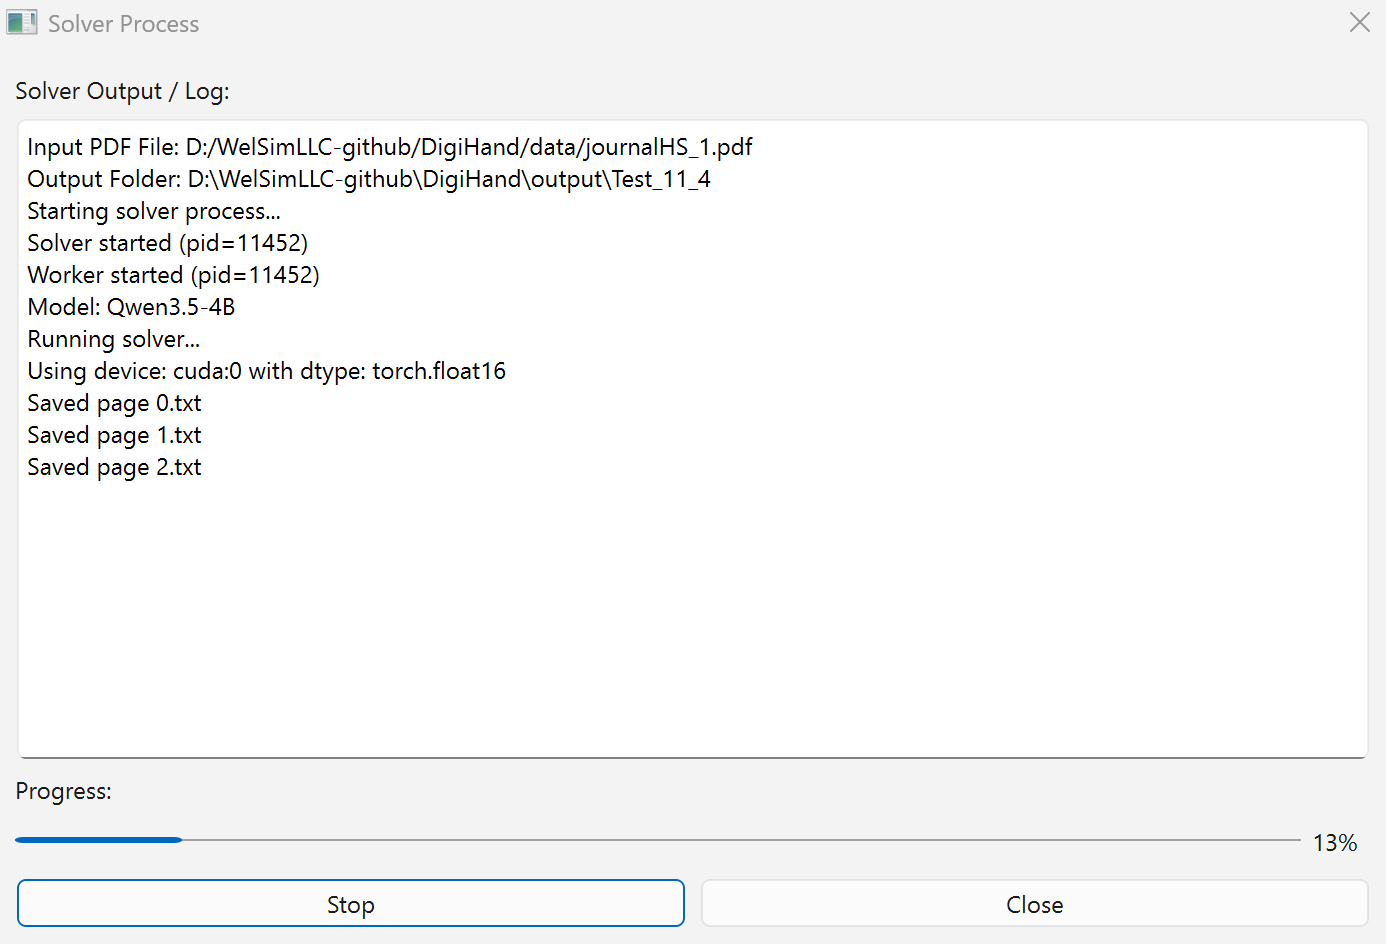
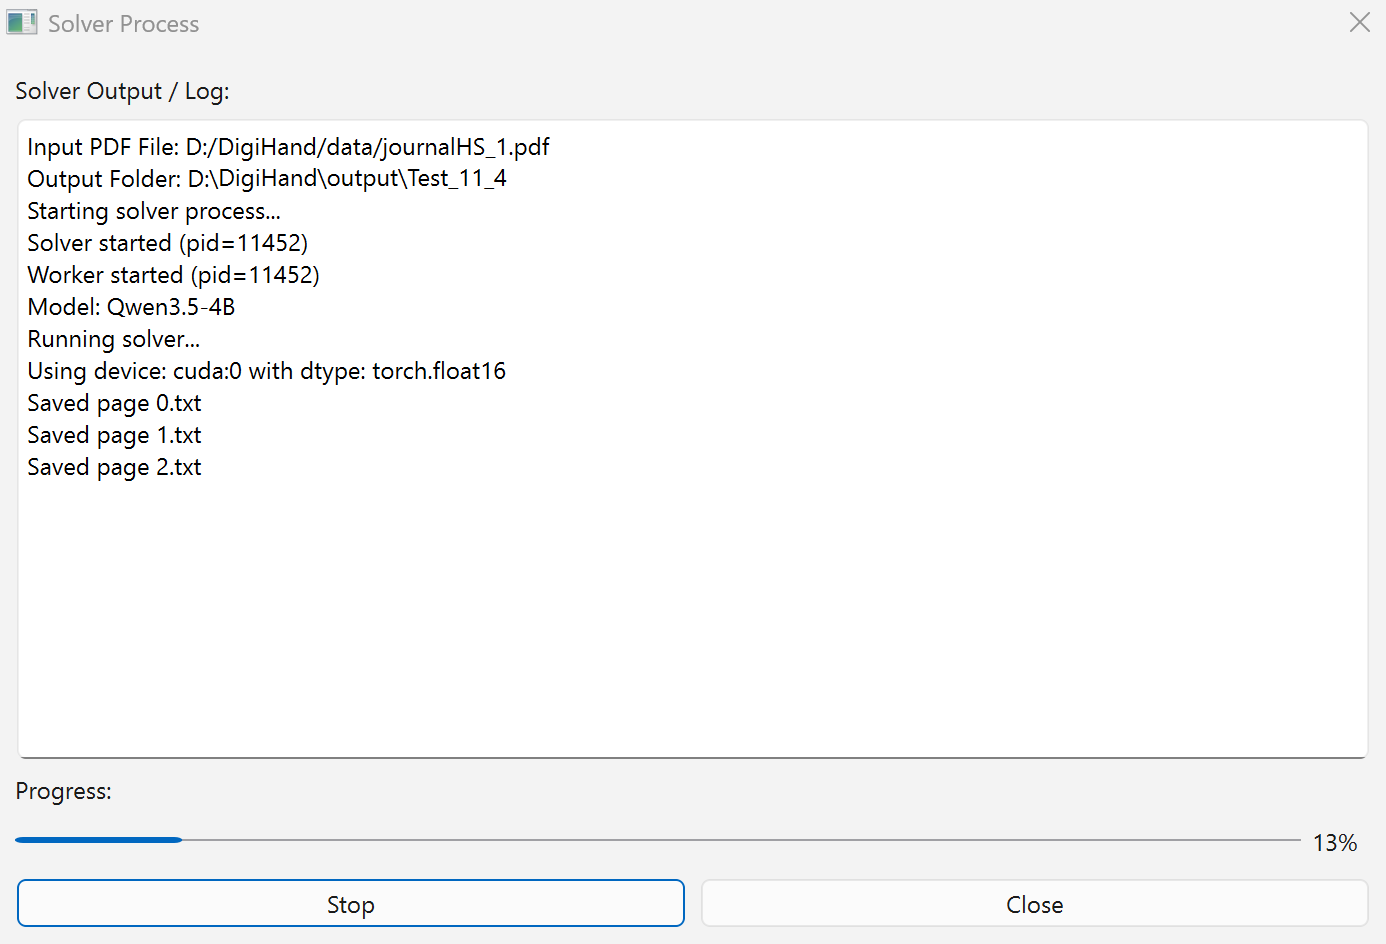
adjust documentation

Changed region(s): [[0.1551, 0.1229, 0.5274, 0.215]]

diff --git a/_layouts/download.html b/_layouts/download.html
@@ -24,6 +24,47 @@ layout: default
 .digihand-keys { border-collapse: collapse; }
 .digihand-keys td, .digihand-keys th { border: 1px solid #ddd; padding: 6px 12px; text-align: left; }
 .digihand-keys code { background: #f2f2f2; padding: 1px 6px; border-radius: 4px; }
+
+/* Section rhythm: the stock .content-padding puts 88px of bottom padding
+   against 88px of top padding, which reads as a large empty gap between
+   blocks. These blocks keep the same horizontal page margins, but sections
+   now share a single 44px gap instead of doubling the padding. */
+.doc-block {
+    padding: 44px 3.125% 0;
+}
+@media (min-width: 992px) {
+    .doc-block { padding: 44px 24px 0; }
+}
+.doc-hero { padding-top: 88px; }
+.doc-block-end { padding-bottom: 44px; }
+
+/* "Documentation" section title: sized up to the page's h1 scale so it reads
+   as a section divider rather than another list heading. */
+.doc-title {
+    text-align: center;
+    margin-bottom: 0;
+    font-size: 42px;
+    line-height: 48px;
+    letter-spacing: 0.02em;
+}
+
+/* Section headings inside the documentation body ("The DigiHand window",
+   "Workflow:", …) step down from the theme's 36px h2 so the 42px
+   "Documentation" title stays the dominant heading on the page. */
+.doc-block h2:not(.doc-title) {
+    font-size: 28px;
+    line-height: 36px;
+}
+
+@media (max-width: 991px) {
+    .doc-block { padding: 28px 3.125% 0; }
+    .doc-hero { padding-top: 32px; }
+    .doc-block-end { padding-bottom: 28px; }
+}
+@media (max-width: 767px) {
+    .doc-title { font-size: 30px; line-height: 38px; }
+    .doc-block h2:not(.doc-title) { font-size: 22px; line-height: 30px; }
+}
 </style>
 
 <div class="pg-title">
@@ -32,7 +73,7 @@ layout: default
     </div>
 </div>
 
-<div class="white-bg content-padding">
+<div class="white-bg doc-block doc-hero">
     <div class="col-6-container">
         <h3>AI-powered handwriting digitization platform, written in Python.</h3>
         <p>
@@ -44,7 +85,13 @@ layout: default
     </div>
 </div>
 
-<div class="white-bg content-padding">
+<div class="white-bg doc-block">
+    <div class="col-8-container">
+        <h2 class="doc-title">Documentation</h2>
+    </div>
+</div>
+
+<div class="white-bg doc-block">
     <div class="col-8-container">
         <h2>The DigiHand window</h2>
         <ul>
@@ -59,7 +106,7 @@ layout: default
     </div>
 </div>
 
-<div class="white-bg content-padding">
+<div class="white-bg doc-block">
     <div class="col-8-container">
         <h2>Workflow:</h2>
 
@@ -111,7 +158,7 @@ layout: default
     </div>
 </div>
 
-<div class="white-bg content-padding">
+<div class="white-bg doc-block">
     <div class="col-8-container">
         <h2>Reviewing tools</h2>
 
@@ -144,7 +191,7 @@ layout: default
     </div>
 </div>
 
-<div class="white-bg content-padding">
+<div class="white-bg doc-block">
     <div class="col-8-container">
         <h2>Publish as an ePub</h2>
         <p>
@@ -167,7 +214,7 @@ layout: default
     </div>
 </div>
 
-<div class="white-bg content-padding">
+<div class="white-bg doc-block">
     <div class="col-8-container">
         <h2>Data Persistence</h2>
         <p>
@@ -185,7 +232,7 @@ layout: default
     </div>
 </div>
 
-<div class="white-bg content-padding">
+<div class="white-bg doc-block doc-block-end">
     <div class="col-8-container">
         <h2>Tips &amp; troubleshooting</h2>
         <ul>
